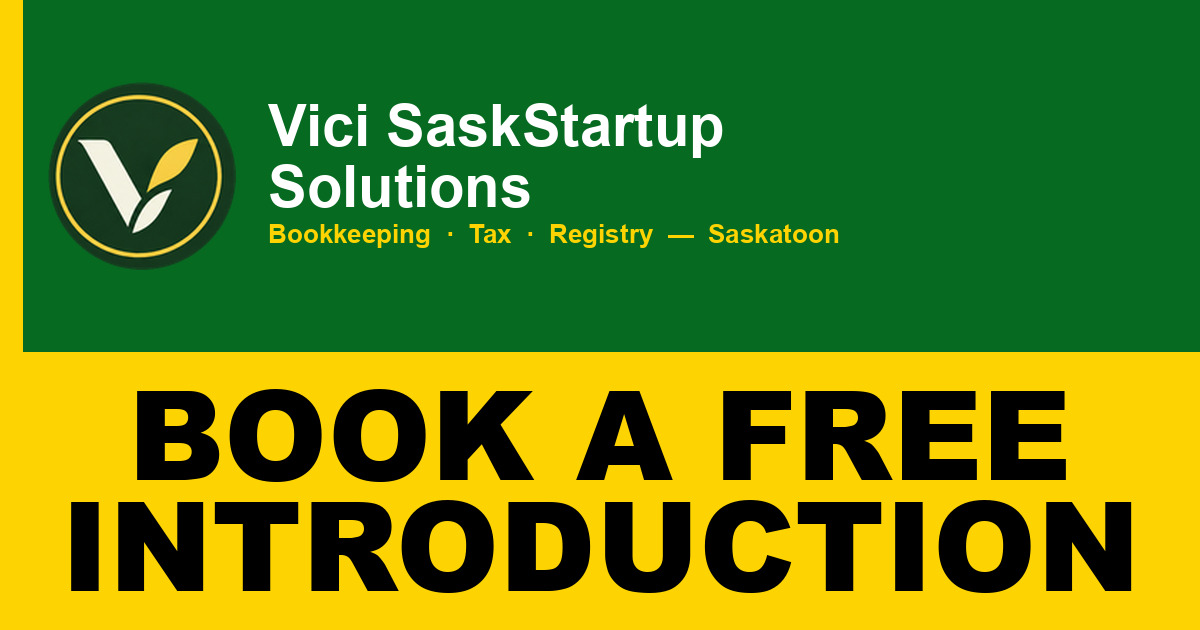
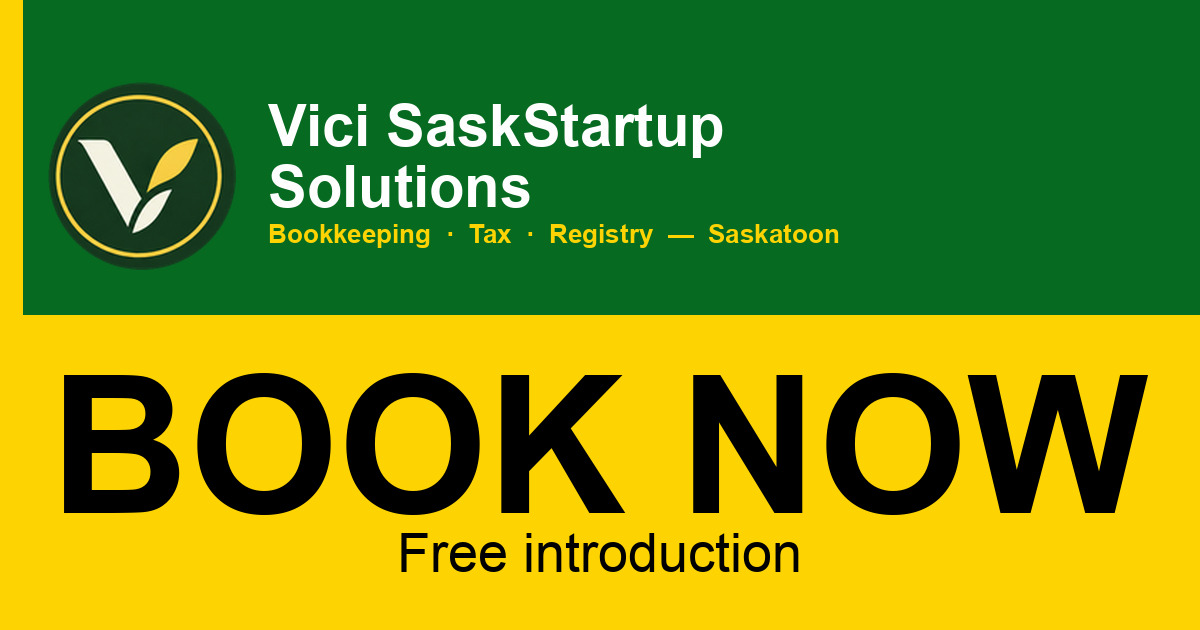
fix(seo): cache-bust the Open Graph image and put BOOK NOW on the card

Changed region(s): [[0.0, 0.4825, 1.0, 0.9651]]

diff --git a/frontend/public/index.html b/frontend/public/index.html
@@ -21,7 +21,7 @@
     <meta data-seo-shell="home" property="og:title" content="Saskatoon Bookkeeping & Tax Setup | Vici" />
     <meta data-seo-shell="home" property="og:description" content="Bookkeeping, T2 filing, and ISC registry for Saskatoon businesses. Book a free introduction." />
     <meta data-seo-shell="home" property="og:url" content="https://saskstartupsolutions.ca/" />
-    <meta data-seo-shell="home" property="og:image" content="https://saskstartupsolutions.ca/og-image.jpg" />
+    <meta data-seo-shell="home" property="og:image" content="https://saskstartupsolutions.ca/og-image.jpg?v=3" />
     <meta property="og:image:width" content="1200" />
     <meta property="og:image:height" content="630" />
     <meta property="og:image:alt" content="Vici SaskStartupSolutions logo — Bookkeeping, Tax and Registry services in Saskatoon" />
@@ -29,7 +29,7 @@
     <meta name="twitter:card" content="summary_large_image" />
     <meta data-seo-shell="home" name="twitter:title" content="Saskatoon Bookkeeping & Tax Setup | Vici" />
     <meta data-seo-shell="home" name="twitter:description" content="Bookkeeping, T2 filing, and ISC registry for Saskatoon businesses. Book a free introduction." />
-    <meta data-seo-shell="home" name="twitter:image" content="https://saskstartupsolutions.ca/og-image.jpg" />
+    <meta data-seo-shell="home" name="twitter:image" content="https://saskstartupsolutions.ca/og-image.jpg?v=3" />
     <!-- Google Analytics 4 (G-03VN7HB92G) — loaded after window load; initial page_view disabled; SPA route views fire from the app -->
     <script>
       window.dataLayer = window.dataLayer || [];

diff --git a/frontend/src/lib/seoShell.js b/frontend/src/lib/seoShell.js
@@ -8,7 +8,7 @@ export const HOME_DESCRIPTION =
 
 export const HOME_URL = "https://saskstartupsolutions.ca/";
 
-export const HOME_OG_IMAGE = "https://saskstartupsolutions.ca/og-image.jpg";
+export const HOME_OG_IMAGE = "https://saskstartupsolutions.ca/og-image.jpg?v=3";
 
 const SHELL = "home";
 
